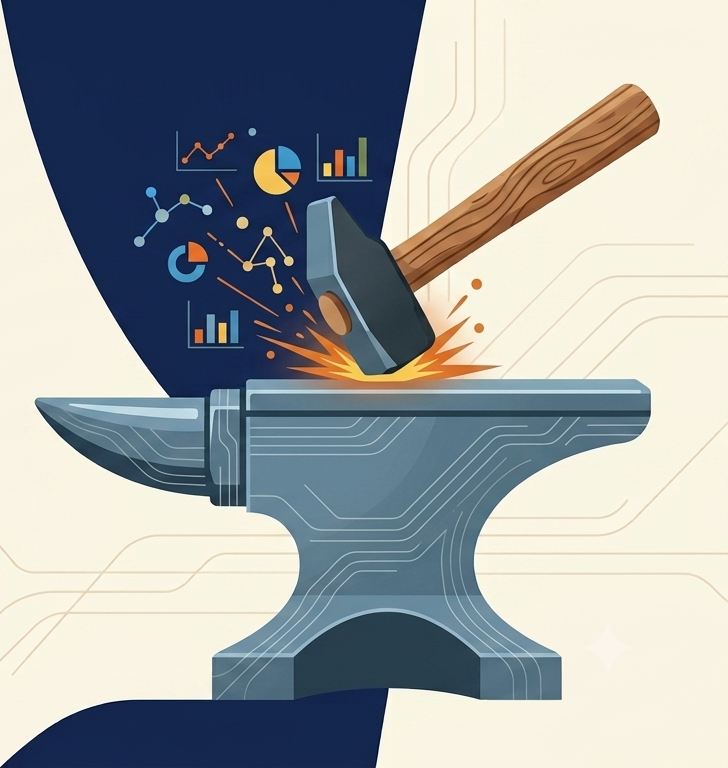
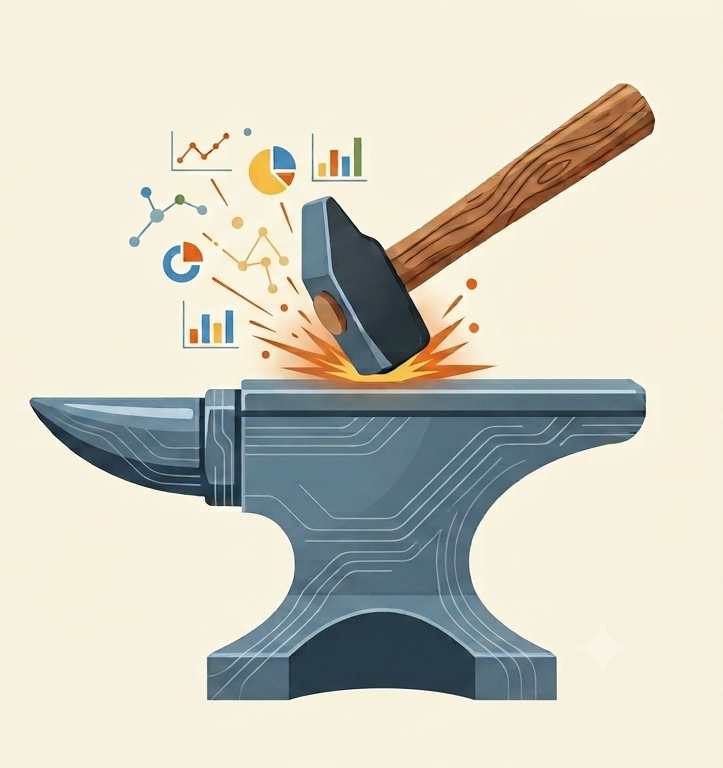
redesign hero illustration: blue-free anvil blended into cream
- replace the navy-zone hero with the new shadow/blue-free anvil illustration
  cropped onto cream
- match --cream exactly to the illustration background (#F7F2DF) so the image
  blends seamlessly into the page with no visible seam
- drop the navy panel, cut-out, and mobile navy card; static, flush illustration
- remove unused hero-anvil-cut.png

diff --git a/src/styles/global.css b/src/styles/global.css
@@ -10,7 +10,7 @@
   --slate:#5A6473;--graphite:#2A3340;--ink:#15183B;--navy:#15183B;--color-navy:#15183B;--navy-2:#1C2150;--navy-deep:#0C0E24;
   --brand:#EF7800;--brand-strong:#D26D08;--brand-alt:#F07805;--brand-soft:#FCEBD8;--brand-tint:#FFF7EF;
   --success:#1F7A4D;--danger:#B23A3A;
-  --cream:#FAF4E4;--cream-2:#F3ECD7;--cream-line:#E7DEC6;
+  --cream:#F7F2DF;--cream-2:#F1EAD3;--cream-line:#E5DCC4;
   --viz-1:#15183B;--viz-2:#33407E;--viz-3:#6F79B4;--viz-4:#EF7800;--viz-5:#F4A83D;
   --sans:'Inter',system-ui,-apple-system,'Segoe UI',Roboto,sans-serif;
   --mono:'Inter',system-ui,-apple-system,'Segoe UI',Roboto,sans-serif;
@@ -632,22 +632,11 @@ body.home .hero h1{color:var(--ink)}
 body.home .hero .sub{color:var(--graphite)}
 body.home .hero .micro{color:var(--slate)}
 
-/* anvil illustration — statisch, flach in die Seite eingelassen, ohne Hover/Schatten;
-   cremefarbener Bildgrund ist freigestellt, der Amboss sitzt in der Navy-Zone */
-.hero-art{position:relative;z-index:1}
+/* anvil illustration — statisch, flach auf dem Beige-Grund (kein Hover, kein Schatten);
+   der Bildhintergrund entspricht exakt --cream, sodass die Illustration nahtlos in die Seite übergeht */
+.hero-art{position:relative}
 .hero-art img{width:100%;height:auto;display:block}
 
-/* Navy-Zone rechts: bewusst gesetzte Navy-Fläche, in die das Blau des Ambosses übergeht.
-   Linke Kante weich gefedert, blutet nach rechts/oben/unten an die Hero-Ränder aus. */
-body.home .hero .wrap{position:relative;z-index:1}
-body.home .hero::after{content:"";position:absolute;inset:0 0 0 auto;width:46%;background:#13264E;z-index:0;
-  -webkit-mask-image:linear-gradient(90deg,transparent 0,#000 27%);
-  mask-image:linear-gradient(90deg,transparent 0,#000 27%)}
-/* Menü-Umschalter (oben rechts) liegt jetzt auf der Navy-Zone → heller Text (Standard). Logo links ist orange und bleibt auf Beige lesbar. */
-/* Mobil (einspaltig): vollflächiges Panel würde den Text überlagern → Illustration bekommt eigenen Navy-Grund, Umschalter wieder dunkel auf Beige */
-@media(max-width:920px){
-  body.home .hero::after{display:none}
-  body.home .hero-art{background:#13264E;border-radius:18px;padding:14px}
-  body.home .site-menu:not(.is-open) .menu-bar:not(.scrolled){color:var(--ink)}
-  body.home .site-menu:not(.is-open) .menu-bar:not(.scrolled) .menu-hamburger-icon{border-color:var(--line-2)}
-}
+/* top bar lesbar über dem hellen Hero (geschlossenes Menü, nicht gescrollt) */
+body.home .site-menu:not(.is-open) .menu-bar:not(.scrolled){color:var(--ink)}
+body.home .site-menu:not(.is-open) .menu-bar:not(.scrolled) .menu-hamburger-icon{border-color:var(--line-2)}